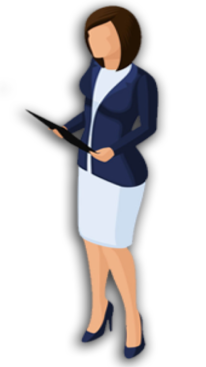
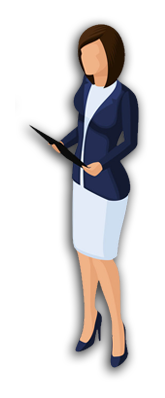
Add light hover

diff --git a/sources/storage.css b/sources/storage.css
@@ -6,11 +6,34 @@ body{
     align-content: center;
 }
 
-#action{
+#action:hover{
     /* background-color: greenyellow; //show area item */
-    transition: 250ms;
+    content: url("item_picture/Assistant_h.png")
 }
 
+#action1:hover{
+    /* background-color: greenyellow; //show area item */
+    content: url("item_picture/Clock_h.png")
+}
+
+#action2:hover{
+    /* background-color: greenyellow; //show area item */
+    content: url("item_picture/Book_h.png")
+}
+
+#action3:hover{
+    /* background-color: greenyellow; //show area item */
+    content: url("item_picture/Phone_h.png")
+}
+
+#action4:hover{
+    /* background-color: greenyellow; //show area item */
+    content: url("item_picture/Table_h.png")
+}
+#action5:hover{
+    /* background-color: greenyellow; //show area item */
+    content: url("item_picture/TV_h.png")
+}
 .stage{
     top: 0;
     left: 0;
@@ -24,18 +47,18 @@ body{
     margin: auto;
     position: fixed;
     transform-origin: center;
-    width: 100%;
+    width: 110%;
     height: auto;
     top: 50%;
     left: 50%;
     transform: translate(-50%, -50%);
 }
 .assistant{
-    width: 11.5%;
+    width: 9.5%;
     height: auto;
     position: absolute;
-    top: 34%;
-    left: 59.5%;
+    top: 32%;
+    left: 58%;
 }
 
 .book{
@@ -86,13 +109,10 @@ body{
 .item-2, 
 .item-3 {
 	position: absolute;
-  display: block;
+    display: block;
 	top: 2em;
-  
-  width: 60%;
-  
-  font-size: 2em;
-    background-color: aqua;
+    width: 60%;
+    font-size: 2em;
 	animation-duration: 20s;
 	animation-timing-function: ease-in-out;
 	animation-iteration-count: infinite;

diff --git a/sources/stage.html b/sources/stage.html
@@ -177,19 +177,19 @@
             <div id='action' class='assistant' onclick="javascript:showMyModalSetTitle2('', '')">
                 <img src="item_picture/Assistant.png" width="100%">
             </div>
-            <div id='action' class='clock' onclick="javascript:showMyModalSetTitle3('', '')">
+            <div id='action1' class='clock' onclick="javascript:showMyModalSetTitle3('', '')">
                 <img src="item_picture/Clock.png" width="100%">
             </div>
-            <div id='action' class='book' onclick="javascript:showMyModalSetTitle4('', '')">
+            <div id='action2' class='book' onclick="javascript:showMyModalSetTitle4('', '')">
                 <img src="item_picture/Book.png" width="100%">
             </div>
-            <div id='action' class='phone' onclick="javascript:showMyModalSetTitle5('', '')">
+            <div id='action3' class='phone' onclick="javascript:showMyModalSetTitle5('', '')">
                 <img src="item_picture/Phone.png" width="100%">
             </div>
-            <div id='action' class='table' onclick="javascript:showMyModalSetTitle6('', '')">
+            <div id='action4' class='table' onclick="javascript:showMyModalSetTitle6('', '')">
                 <img src="item_picture/Table.png" width="100%">
             </div>
-            <div id='action' class='tv' onclick="javascript:showMyModalSetTitle7('', '')">
+            <div id='action5' class='tv' onclick="javascript:showMyModalSetTitle7('', '')">
                 <img src="item_picture/TV.png" width="100%">
             </div>
         </div>
